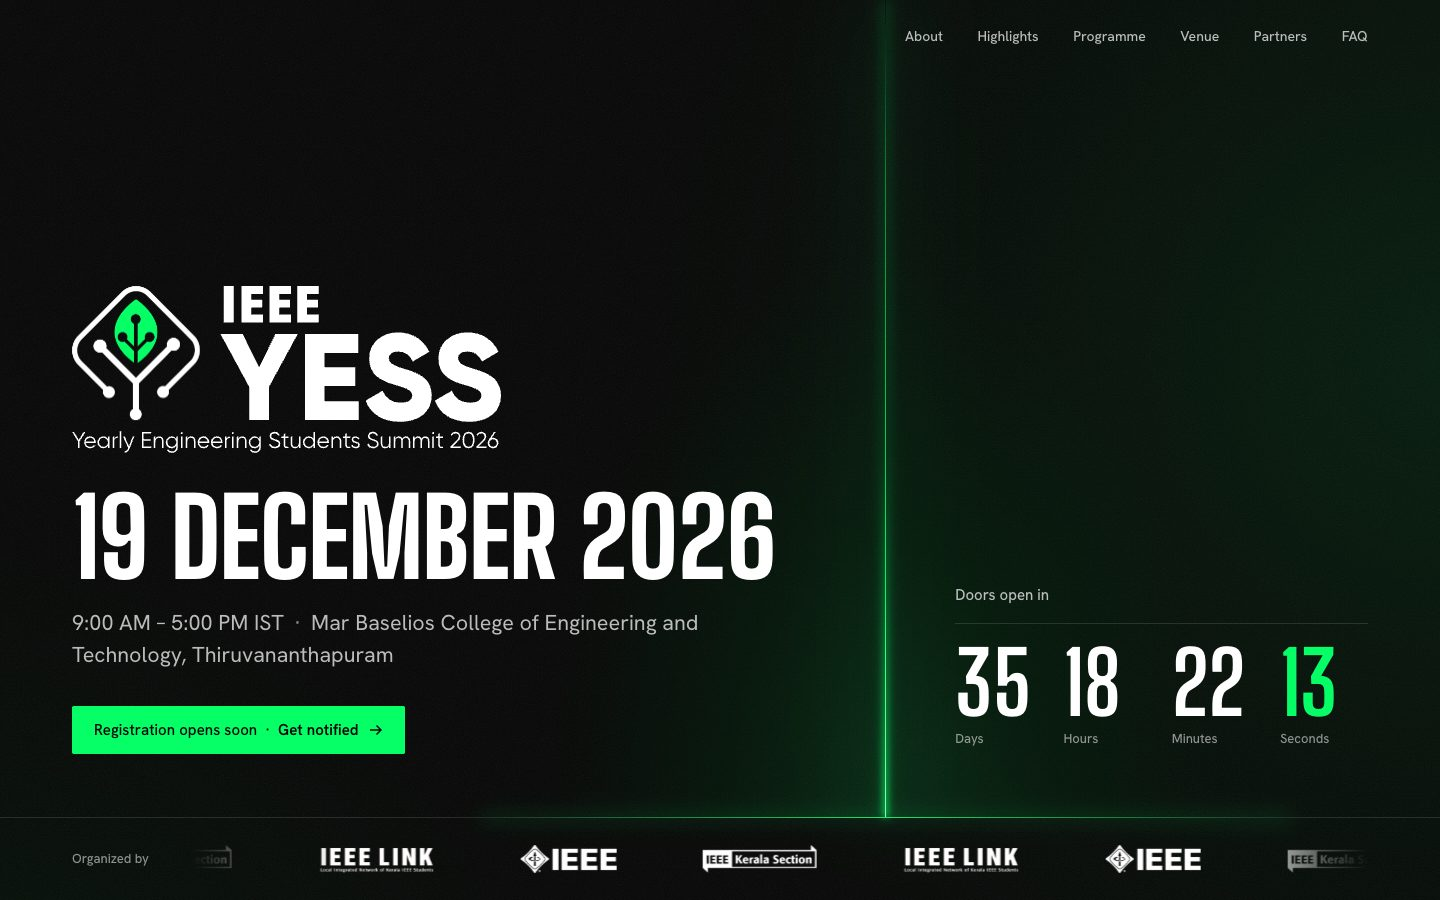
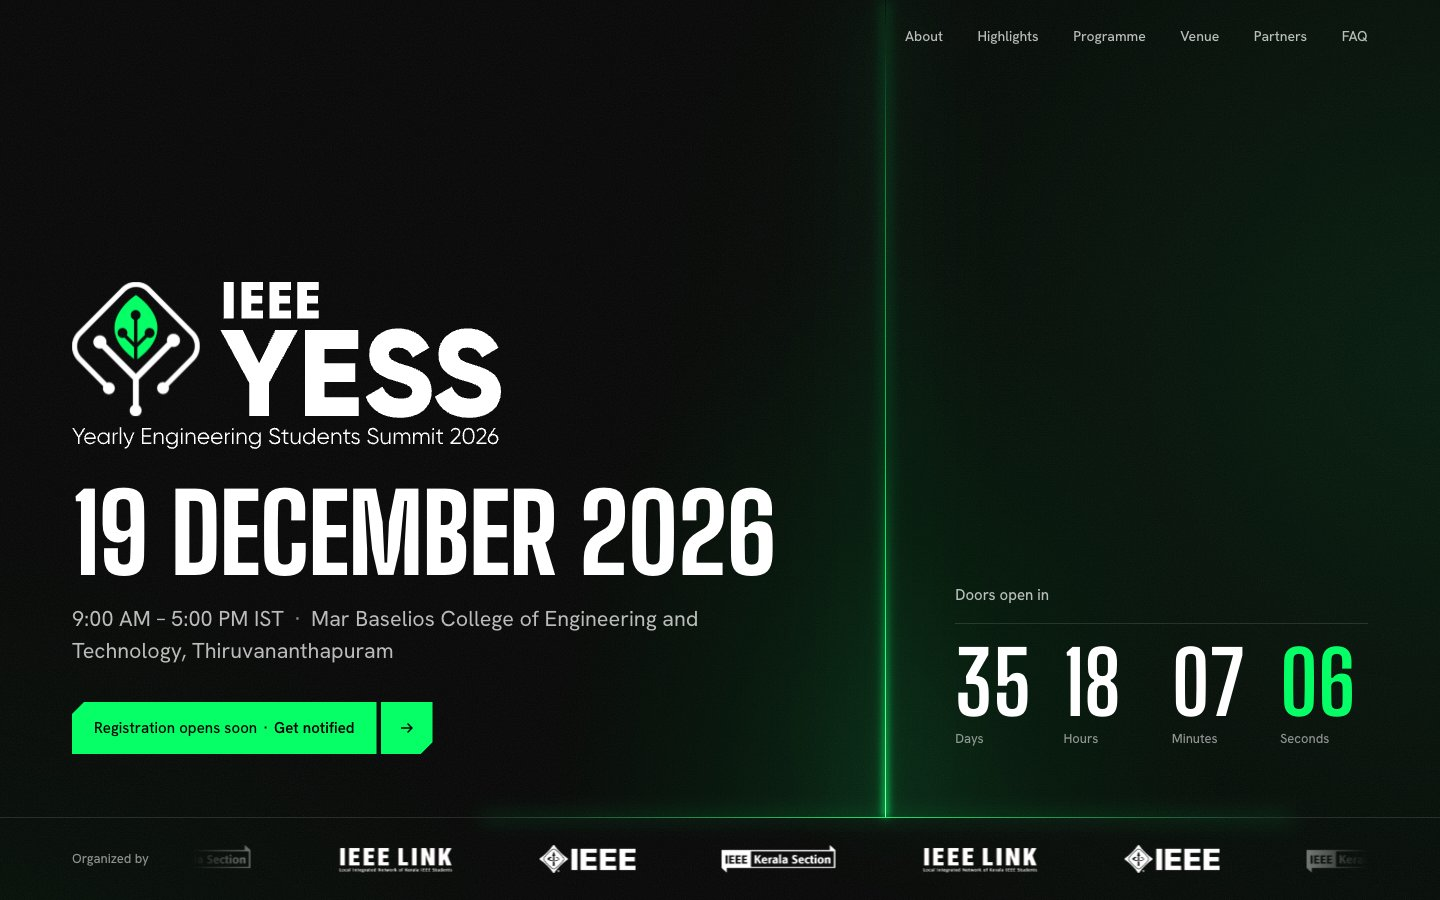
Revamp footer design

diff --git a/src/styles/sections.css b/src/styles/sections.css
@@ -144,42 +144,60 @@ a.tile:hover { box-shadow: inset 0 0 0 1px var(--line-2); }
 .final__cta { margin-top: var(--s-7); display: flex; justify-content: center; }
 @media (max-width: 599px) { .final__line { font-size: 15vw; } .final__facts { font-size: var(--fs-s); } }
 
-/* ---------- Footer ---------- */
-.foot { position: relative; padding-top: clamp(72px, 12vh, 128px); padding-bottom: calc(var(--s-5) + env(safe-area-inset-bottom)); background: var(--black); }
-.foot__top, .foot__cols { display: grid; grid-template-columns: repeat(12, minmax(0, 1fr)); column-gap: var(--gutter); }
-.foot__brand { grid-column: 1 / span 4; }
-.foot__logo { width: clamp(220px, 22vw, 340px); }
-.foot__notify { grid-column: 7 / -1; }
-.foot__cols { margin-top: clamp(48px, 7vh, 72px); }
-.foot__col { grid-column: span 2; }
-.foot__col:first-child { grid-column: 1 / span 2; }
-.foot__h { font-size: var(--fs-s); font-weight: 600; color: var(--ink); margin-bottom: var(--s-4); }
-.foot__list { display: grid; gap: 6px; font-size: var(--fs-s); }
-.notify__label { display: block; font-size: var(--fs-m); color: var(--ink-2); margin-bottom: var(--s-4); }
-.notify__row { display: flex; gap: var(--s-2); max-width: 560px; }
-.notify input { flex: 1; min-width: 0; height: 48px; padding: 0 16px; border: 0; border-radius: var(--r); background: rgb(255 255 255 / 0.04); box-shadow: inset 0 0 0 1px var(--line-2);
-  color: var(--ink); font: inherit; font-size: 16px; transition: box-shadow var(--t-state) var(--ease); }
-.notify input::placeholder { color: var(--ink-3); }
-.notify input:hover { box-shadow: inset 0 0 0 1px rgb(255 255 255 / 0.4); }
-.notify input:focus { outline: none; box-shadow: inset 0 0 0 1px var(--white); }
-.notify input:focus-visible { outline: 2px solid var(--green); outline-offset: 3px; }
-.notify__msg { min-height: 1.6em; margin-top: var(--s-3); font-size: var(--fs-s); color: var(--ink-2); }
-.notify__msg[data-ok="true"] { color: var(--green); }
-.notify__mail { margin-top: var(--s-2); font-size: var(--fs-s); color: var(--ink-3); }
+/* ---------- Footer: a near-black panel with rounded top corners, pulled up over the tinted final call ---------- */
+.final { background: linear-gradient(to bottom, var(--bg), var(--final-tint) 38%); padding-bottom: calc(clamp(140px, 26vh, 280px) + var(--panel-r)); }
+:root { --final-tint: #13291a; }
+.foot { position: relative; z-index: 1; margin-top: calc(-1 * var(--panel-r)); overflow: hidden; background: #0b0b0b; border-radius: var(--panel-r) var(--panel-r) 0 0;
+  padding-top: clamp(64px, 10vh, 112px); padding-bottom: env(safe-area-inset-bottom); }
+.foot__smoke { position: absolute; inset: 0; pointer-events: none; opacity: 0.2;
+  background: url("../img/smoke-wide.webp") center bottom / cover no-repeat;
+  -webkit-mask-image: linear-gradient(to bottom, transparent 10%, #000 75%); mask-image: linear-gradient(to bottom, transparent 10%, #000 75%); }
+.foot__in { position: relative; }
 
-.foot__legal { display: flex; justify-content: space-between; gap: var(--s-4); flex-wrap: wrap; margin-top: clamp(72px, 12vh, 128px); padding-top: var(--s-5); border-top: 1px solid var(--line); font-size: var(--fs-xs); color: var(--ink-3); }
-.foot__legal .link { color: var(--ink-3); }
-.foot__legal .link:hover { color: var(--ink); }
+.foot__top { display: grid; grid-template-columns: minmax(0, 1fr) minmax(0, min(46%, 620px)); grid-template-areas: "logo ask" "cols ask"; column-gap: clamp(40px, 6vw, 112px); row-gap: clamp(40px, 6vh, 64px); align-items: start; }
+.foot__logo { grid-area: logo; width: clamp(200px, 18vw, 300px); }
+.foot__ask { grid-area: ask; }
+.foot__cols { grid-area: cols; display: flex; flex-wrap: wrap; gap: 24px clamp(48px, 7vw, 128px); }
+.foot__q { font-family: var(--font-text); font-size: clamp(28px, 2.6vw, 44px); font-weight: 500; line-height: 1.1; letter-spacing: -0.015em; color: var(--ink); }
+.foot__sub { margin-top: var(--s-3); font-size: var(--fs-s); color: var(--ink-2); max-width: 32em; }
+.foot__list { display: grid; gap: 14px; align-content: start; font-size: var(--fs-m); }
+.foot .link { color: var(--ink-2); background-image: linear-gradient(var(--green), var(--green)); }
+.foot .link:hover, .foot .link:focus-visible { color: var(--ink); background-size: 100% 1px; }
+
+.notify { margin-top: clamp(20px, 3vh, 28px); }
+.notify__row { display: flex; gap: 8px; }
+.notify input { flex: 1; min-width: 0; height: var(--btn-h); padding: 0 18px; border: 1px solid rgb(255 255 255 / 0.32); border-radius: 0; background: rgb(0 0 0 / 0.55);
+  color: var(--ink); font: inherit; font-size: 16px; transition: border-color var(--t-state) var(--ease); }
+.notify input::placeholder { color: var(--ink-3); opacity: 1; }
+.notify input:hover { border-color: rgb(255 255 255 / 0.6); }
+.notify input:focus { outline: none; border-color: var(--white); }
+.notify input:focus-visible { outline: 2px solid var(--green); outline-offset: 2px; }
+.notify .btn--primary { flex: none; }
+.notify__msg { min-height: 1.5em; margin-top: 10px; font-size: var(--fs-s); color: var(--ink-2); }
+.notify__msg[data-ok="true"] { color: var(--green); }
+.todo { margin-top: var(--s-2); padding: 10px 14px; border: 1px dashed rgb(255 200 0 / 0.6); font-size: var(--fs-xs); line-height: 1.5; color: #ffd84d; }
+.todo b { margin-right: 6px; letter-spacing: 0.04em; }
+.todo code { font-family: ui-monospace, Menlo, monospace; font-size: 12px; }
+
+/* the wordmark: type, not the logo. One line, sized in JS to ~70% of the content width; each letter rises once. */
+.foot__mark { display: flex; justify-content: center; margin-block: clamp(72px, 12vh, 136px) clamp(48px, 8vh, 96px); font-family: var(--font-display); font-weight: 800; text-transform: uppercase;
+  font-size: 15vw; line-height: 0.86; white-space: nowrap; color: var(--white); user-select: none; pointer-events: none; }
+.foot__mark-in { display: flex; overflow: clip; padding-top: 0.04em; }
+.foot__mark .ch { display: block; }
+.js .foot__mark .ch { transform: translateY(105%); transition: transform 1.1s var(--ease); transition-delay: calc(var(--i) * 45ms); }
+.js .foot__mark.in .ch { transform: none; }
+
+.foot__legal { padding-block: var(--s-5) var(--s-6); border-top: 1px solid var(--line); text-align: center; font-size: var(--fs-s); color: var(--ink-3); }
+.foot__legal .link--inline { color: var(--ink); background-size: 100% 1px; background-image: linear-gradient(var(--ink-3), var(--ink-3)); }
+.foot__legal .link--inline:hover, .foot__legal .link--inline:focus-visible { background-image: linear-gradient(var(--green), var(--green)); }
 
 @media (max-width: 899px) {
-  .foot__top, .foot__cols { grid-template-columns: repeat(2, minmax(0, 1fr)); row-gap: var(--s-8); }
-  .foot__brand, .foot__notify { grid-column: 1 / -1; }
-  .foot__col, .foot__col:first-child { grid-column: span 1; }
-  .foot__cols { margin-top: var(--s-8); row-gap: var(--s-6); }
+  .foot__top { grid-template-columns: minmax(0, 1fr); grid-template-areas: "logo" "ask" "cols"; row-gap: var(--s-7); }
+  .foot__logo { width: 220px; }
+  .foot__smoke { background-image: url("../img/smoke-tall.webp"); }
+  .foot__cols { display: grid; grid-template-columns: repeat(2, minmax(0, 1fr)); gap: var(--s-5); }
   .foot__list { gap: 0; }
   .foot__list .link { display: inline-block; padding-block: 11px; }
-  .foot__logo { width: 240px; }
-  .foot__legal { align-items: center; }
-  .foot__legal .link { display: inline-block; padding-block: 12px; }
+  .foot__mark { margin-block: var(--s-8) var(--s-6); }
+  .foot__legal { line-height: 1.8; }
 }
-@media (max-width: 420px) { .notify__row { flex-direction: column; } .notify input { flex: none; } }

diff --git a/src/render/sections.ts b/src/render/sections.ts
@@ -12,11 +12,15 @@ const pad = (n: number) => String(n).padStart(2, "0");
 const arrow = `<svg class="btn__icon" width="14" height="14" viewBox="0 0 14 14" aria-hidden="true"><path d="M1 7h11M7.5 2.5 12 7l-4.5 4.5" fill="none" stroke="currentColor" stroke-width="1.6"/></svg>`;
 const out = `<svg class="btn__icon" width="12" height="12" viewBox="0 0 12 12" aria-hidden="true"><path d="M3 9 9 3M4 3h5v5" fill="none" stroke="currentColor" stroke-width="1.6"/></svg>`;
 
-/** The one primary action. "Register now" once CONFIG.REGISTER_URL is set; until then it points at the notify form. */
+/** The primary button: a chamfered label block and a separate chamfered arrow block. Used for every primary action. */
+export const primary = (label: string, icon: string = arrow) =>
+  `<span class="btn__label">${label}</span><span class="btn__arrow" aria-hidden="true">${icon}</span>`;
+
+/** The one primary action. "Register now" once CONFIG.REGISTER_URL is set; until then it points at the footer form. */
 export const cta = () =>
   CONFIG.REGISTER_URL
-    ? `<a class="btn btn--primary" href="${esc(CONFIG.REGISTER_URL)}" target="_blank" rel="noopener">Register now ${out}</a>`
-    : `<a class="btn btn--primary" href="#notify"><span class="btn__soft">Registration opens soon</span><span class="btn__dot" aria-hidden="true">·</span>Get notified ${arrow}</a>`;
+    ? `<a class="btn btn--primary" href="${esc(CONFIG.REGISTER_URL)}" target="_blank" rel="noopener">${primary("Register now", out)}<span class="sr-only"> (opens in a new tab)</span></a>`
+    : `<a class="btn btn--primary" href="#notify">${primary('<span class="btn__soft">Registration opens soon</span><span class="btn__dot" aria-hidden="true">·</span>Get notified')}</a>`;
 
 /**
  * The organizer marquee. One set of logos, repeated so each half of the track is wider than any
@@ -86,20 +90,23 @@ export function faq() {
 }
 
 /**
- * The notify form. It posts to CONFIG.NOTIFY_ENDPOINT (any form service that accepts POST with an
- * "email" field). TODO: while the endpoint is null the form stays on the page but tells the visitor
- * the list is not open yet, instead of pretending to sign them up. The build prints a warning.
+ * The footer form. Posts the email to CONFIG.NOTIFY_ENDPOINT; without one it falls back to a mail
+ * link to CONFIG.CONTACT_EMAIL; with neither it shows a visible TODO (and the build warns).
  */
 export function notify() {
-  const mail = CONFIG.CONTACT_EMAIL ? `<p class="notify__mail">Questions: <a class="link" href="mailto:${esc(CONFIG.CONTACT_EMAIL)}">${esc(CONFIG.CONTACT_EMAIL)}</a></p>` : "";
-  return `<form class="notify" id="notifyForm" method="post"${CONFIG.NOTIFY_ENDPOINT ? ` action="${esc(CONFIG.NOTIFY_ENDPOINT)}"` : ' data-off'} novalidate>
-    <label class="notify__label" for="notifyEmail">Hear first when registration opens.</label>
+  const mode = CONFIG.NOTIFY_ENDPOINT ? "post" : CONFIG.CONTACT_EMAIL ? "mail" : "off";
+  const attrs = mode === "post" ? ` action="${esc(CONFIG.NOTIFY_ENDPOINT!)}"` : mode === "mail" ? ` data-mail="${esc(CONFIG.CONTACT_EMAIL!)}"` : " data-off";
+  const todo = mode === "off"
+    ? `<p class="todo" role="note"><b>TODO</b> Connect this form: set <code>NOTIFY_ENDPOINT</code> or <code>CONTACT_EMAIL</code> in <code>src/content/config.ts</code>.</p>`
+    : "";
+  return `<form class="notify" id="notifyForm" method="post"${attrs} novalidate>
     <div class="notify__row">
-      <input id="notifyEmail" name="email" type="email" required autocomplete="email" placeholder="you@college.edu" inputmode="email">
-      <button class="btn btn--primary" type="submit">Notify me</button>
+      <label class="sr-only" for="notifyEmail">Your email</label>
+      <input id="notifyEmail" name="email" type="email" required autocomplete="email" inputmode="email" placeholder="Enter your email">
+      <button class="btn btn--primary" type="submit">${primary("Send")}</button>
     </div>
     <p class="notify__msg" id="notifyMsg" role="status" aria-live="polite"></p>
-  </form>${mail}`;
+  </form>${todo}`;
 }
 
 export function socials() {
@@ -107,7 +114,7 @@ export function socials() {
   const items = Object.entries(CONFIG.SOCIALS).filter(([, url]) => url);
   if (!items.length) return "";
   const names: Record<string, string> = { instagram: "Instagram", linkedin: "LinkedIn", youtube: "YouTube", whatsapp: "WhatsApp" };
-  return `<div class="foot__col"><h2 class="foot__h">Follow</h2><ul class="foot__list">${items.map(([k, url]) => `<li><a class="link" href="${esc(url as string)}" target="_blank" rel="noopener">${names[k] ?? k}</a></li>`).join("")}</ul></div>`;
+  return `<nav aria-label="Social"><ul class="foot__list">${items.map(([k, url]) => `<li><a class="link" href="${esc(url as string)}" target="_blank" rel="noopener">${names[k] ?? k}</a></li>`).join("")}</ul></nav>`;
 }
 
 export const directions = () => esc(directionsUrl());

diff --git a/index.html b/index.html
@@ -187,37 +187,35 @@
 </main>
 
 <footer class="foot" id="notify">
-  <div class="wrap">
+  <div class="foot__smoke" aria-hidden="true"></div>
+  <div class="wrap foot__in">
     <div class="foot__top">
-      <div class="foot__brand">
-        <img class="logo foot__logo" src="./assets/YESS_Logo.svg" width="1202" height="463" alt="IEEE YESS, Yearly Engineering Students Summit 2026" loading="lazy">
-      </div>
-      <div class="foot__notify">
-        <h2 class="foot__h">Get notified</h2>
+      <img class="logo foot__logo" src="./assets/YESS_Logo.svg" width="1202" height="463" alt="IEEE YESS, Yearly Engineering Students Summit 2026" loading="lazy" decoding="async">
+      <div class="foot__ask">
+        <h2 class="foot__q">Still have questions?</h2>
+        <p class="foot__sub">Leave your email. We will reply, and let you know when registration opens.</p>
         {{NOTIFY}}
       </div>
-    </div>
-    <div class="foot__cols">
-      <nav class="foot__col" aria-label="Sections, footer">
-        <h2 class="foot__h">Sections</h2>
-        <ul class="foot__list">
-          <li><a class="link" href="#about">About</a></li><li><a class="link" href="#highlights">Highlights</a></li><li><a class="link" href="#programme">Programme</a></li>
-          <li><a class="link" href="#venue">Venue</a></li><li><a class="link" href="#partners">Partners</a></li><li><a class="link" href="#faq">FAQ</a></li>
-        </ul>
-      </nav>
-      <div class="foot__col">
-        <h2 class="foot__h">Organizers</h2>
-        <ul class="foot__list">
-          <li><a class="link" href="{{LINK_LINK}}" target="_blank" rel="noopener">IEEE LINK</a></li>
-          <li><a class="link" href="{{LINK_KERALA}}" target="_blank" rel="noopener">IEEE Kerala Section</a></li>
-          <li><a class="link" href="{{LINK_IEEE}}" target="_blank" rel="noopener">IEEE</a></li>
-        </ul>
+      <div class="foot__cols">
+        <nav aria-label="Sections, footer">
+          <ul class="foot__list">
+            <li><a class="link" href="#highlights">Highlights</a></li><li><a class="link" href="#programme">Programme</a></li><li><a class="link" href="#venue">Venue</a></li><li><a class="link" href="#partners">Partners</a></li><li><a class="link" href="#faq">FAQ</a></li>
+          </ul>
+        </nav>
+        <nav aria-label="IEEE">
+          <ul class="foot__list">
+            <li><a class="link" href="{{LINK_IEEE}}" target="_blank" rel="noopener">IEEE</a></li>
+            <li><a class="link" href="{{LINK_KERALA}}" target="_blank" rel="noopener">IEEE Kerala Section</a></li>
+            <li><a class="link" href="{{LINK_LINK}}" target="_blank" rel="noopener">IEEE LINK</a></li>
+            <li><a class="link" href="{{LINK_YESS25}}" target="_blank" rel="noopener">YESS 2025</a></li>
+          </ul>
+        </nav>
+        {{SOCIALS}}
       </div>
-      {{SOCIALS}}
     </div>
+    <p class="foot__mark" id="footMark" aria-hidden="true"><span class="foot__mark-in">{{WORDMARK}}</span></p>
     <div class="foot__legal">
-      <p>© 2026 IEEE YESS. Organized by IEEE LINK TEAM</p>
-      <a class="link" href="#top">Back to top</a>
+      <p>© 2026 IEEE YESS. Organized by <a class="link link--inline" href="{{LINK_LINK}}" target="_blank" rel="noopener">IEEE LINK</a> TEAM</p>
     </div>
   </div>
 </footer>

diff --git a/src/styles/base.css b/src/styles/base.css
@@ -40,7 +40,9 @@
   --margin: clamp(20px, 5vw, 88px);
   --gutter: clamp(16px, 2vw, 32px);
   --max: 1600px;
-  --r: 2px; /* the only radius */
+  --r: 2px; /* the only small radius */
+  --panel-r: 44px; /* the footer panel's top corners */
+  --chamfer: 12px; --btn-h: 52px; --green-hi: #5cff9c;
 
   /* one easing family, one duration scale */
   --ease: cubic-bezier(0.16, 1, 0.3, 1);
@@ -83,15 +85,22 @@ ul, ol { list-style: none; }
 .btn:active { transform: translateY(1px); }
 .btn__icon { flex: none; transition: transform var(--t-small) var(--ease); }
 .btn:hover .btn__icon { transform: translateX(3px); }
-.btn--primary { background: var(--green); color: var(--black); }
-.btn--primary:hover { background: var(--white); }
+/* primary: a label block with its top-left corner cut at 45°, a 4px gap, and an arrow block with its
+   bottom-right corner cut. The link/button itself is transparent so focus rings and taps cover both. */
+.btn--primary { gap: 4px; padding: 0; align-items: stretch; height: var(--btn-h); min-height: 0; color: var(--black); }
+.btn--primary .btn__label, .btn--primary .btn__arrow { display: flex; align-items: center; justify-content: center; background: var(--green); transition: background-color var(--t-state) var(--ease); }
+.btn--primary .btn__label { gap: 8px; padding-inline: 22px; clip-path: polygon(var(--chamfer) 0, 100% 0, 100% 100%, 0 100%, 0 var(--chamfer)); }
+.btn--primary .btn__arrow { flex: none; width: var(--btn-h); clip-path: polygon(0 0, 100% 0, 100% calc(100% - var(--chamfer)), calc(100% - var(--chamfer)) 100%, 0 100%); }
+.btn--primary:hover .btn__label, .btn--primary:hover .btn__arrow { background: var(--green-hi); }
+.btn--primary:hover .btn__icon { transform: translateX(3px); }
+.btn--primary:focus-visible { border-radius: 0; }
 .btn--secondary { box-shadow: inset 0 0 0 1px var(--line-2); color: var(--ink); }
 .btn--secondary:hover { box-shadow: inset 0 0 0 1px var(--white); background: rgb(255 255 255 / 0.04); }
 .btn--icon { width: 48px; padding: 0; }
 .btn--icon:hover svg { transform: none; }
 .btn__soft { font-weight: 500; }
 .btn__dot { margin-inline: -2px; }
-@media (max-width: 420px) { .btn--primary .btn__soft { font-size: 14px; } .btn--primary { padding-inline: 16px; gap: 8px; } }
+@media (max-width: 420px) { .btn--primary .btn__soft { font-size: 14px; } .btn--primary .btn__label { padding-inline: 14px; gap: 6px; } }
 
 /* text links: one look */
 .link { color: var(--ink-2); background: linear-gradient(currentColor, currentColor) 0 100% / 0 1px no-repeat; transition: color var(--t-state) var(--ease), background-size var(--t-small) var(--ease); padding-block: 2px; }
@@ -125,6 +134,7 @@ ul, ol { list-style: none; }
   .nav__menu { display: block; }
   .nav__logo { width: 84px; }
   html { scroll-padding-top: 64px; }
+  :root { --panel-r: 28px; --chamfer: 10px; --btn-h: 50px; }
 }
 
 /* ---- shared type ---- */

diff --git a/src/sections/notify.ts b/src/sections/notify.ts
@@ -14,14 +14,20 @@ export function initNotify() {
   form.addEventListener("submit", async e => {
     e.preventDefault();
     if (!input.checkValidity()) { say("Enter a valid email address."); input.focus(); return; }
-    if (form.hasAttribute("data-off")) { say("The list opens shortly. Please check back soon."); return; }
+    if (form.hasAttribute("data-off")) { say("This form is not connected yet."); return; }
+    if (form.dataset.mail) {
+      const body = encodeURIComponent(`Please reply to: ${input.value}\n\n`);
+      location.href = `mailto:${form.dataset.mail}?subject=${encodeURIComponent("IEEE YESS 2026: a question")}&body=${body}`;
+      say("Your mail app should open with the message ready to send.", true);
+      return;
+    }
     button.disabled = true;
     say("Sending…");
     try {
       const res = await fetch(form.action, { method: "POST", body: new FormData(form), headers: { Accept: "application/json" } });
       if (!res.ok) throw new Error(String(res.status));
       form.reset();
-      say("You are on the list. We will write when registration opens.", true);
+      say("Thank you. We will be in touch.", true);
     } catch {
       say("That did not go through. Please try again in a moment.");
     } finally {

diff --git a/src/content/config.ts b/src/content/config.ts
@@ -30,7 +30,12 @@ export const CONFIG = {
   REGISTER_URL: null as string | null,
   /** TODO: contact email. */
   CONTACT_EMAIL: null as string | null,
-  /** TODO: endpoint the "Get notified" form posts to. */
+  /**
+   * TODO: endpoint the footer form ("Still have questions?") posts to: any form service that accepts
+   * POST with an "email" field (Formspree, Getform, Basin...). If it stays null but CONTACT_EMAIL is set,
+   * the form opens the visitor's mail app addressed to CONTACT_EMAIL instead. With neither, the footer
+   * shows a visible TODO.
+   */
   NOTIFY_ENDPOINT: null as string | null,
   /** TODO: 2026 social handles (full URLs). Hidden while null. */
   SOCIALS: {
@@ -47,6 +52,8 @@ export const CONFIG = {
     ieee: "https://www.ieee.org/",
     ieeeKerala: "https://ieeekerala.org/",
     ieeeLink: "https://ieee-link.org/",
+    /** Last year's site, linked from the earlier YESS build. If the 2026 site is deployed to this same domain, change it. */
+    yess25: "https://yess.ieee-link.org/",
   },
   /**
    * The organizer marquee in the hero. Real files from assets/partners, used exactly as supplied.

diff --git a/src/main.ts b/src/main.ts
@@ -11,8 +11,17 @@ import { initNotify } from "./sections/notify";
 startCountdown(document.getElementById("count")!, document.getElementById("countLabel"));
 
 // statements that reveal line by line: split now, again once fonts land, and when the measure changes
+// the footer wordmark: one line at about 70% of the content width, whatever the font metrics
+const mark = document.getElementById("footMark")!, markIn = mark.firstElementChild as HTMLElement;
+const fitMark = () => {
+  mark.style.fontSize = "100px";
+  const box = mark.parentElement!, cs = getComputedStyle(box);
+  const content = box.clientWidth - parseFloat(cs.paddingLeft) - parseFloat(cs.paddingRight);
+  mark.style.fontSize = `${((content * 0.7) / markIn.scrollWidth) * 100}px`;
+};
+
 const splits = [...document.querySelectorAll<HTMLElement>("[data-split]")];
-const resplit = () => splits.forEach(splitLines);
+const resplit = () => { splits.forEach(splitLines); fitMark(); };
 resplit();
 document.fonts?.ready.then(resplit);
 let rz = 0, lastW = innerWidth;

diff --git a/src/sections/nav.ts b/src/sections/nav.ts
@@ -36,7 +36,7 @@ export function initNav() {
   const reveal = new IntersectionObserver(es => {
     for (const e of es) if (e.isIntersecting) { e.target.classList.add("in"); reveal.unobserve(e.target); }
   }, { rootMargin: "0px 0px -12% 0px", threshold: 0 });
-  document.querySelectorAll(".sec, .final, .foot").forEach(s => reveal.observe(s));
+  document.querySelectorAll(".sec, .final, .foot, #footMark").forEach(s => reveal.observe(s));
 
   // phone menu: full screen; Escape and any link close it
   const menu = document.getElementById("menu")!, btn = document.getElementById("menuBtn")!;

diff --git a/vite.config.ts b/vite.config.ts
@@ -42,6 +42,8 @@ function contentTokens(): Plugin {
           LINK_IEEE: esc(CONFIG.LINKS.ieee),
           LINK_KERALA: esc(CONFIG.LINKS.ieeeKerala),
           LINK_LINK: esc(CONFIG.LINKS.ieeeLink),
+          LINK_YESS25: esc(CONFIG.LINKS.yess25),
+          WORDMARK: [..."IEEE YESS"].map((c, i) => `<span class="ch" style="--i:${i}">${c === " " ? "&nbsp;" : c}</span>`).join(""),
           DIRECTIONS_URL: directions(),
           CTA: cta(),
           HIGHLIGHTS: highlights(),

diff --git a/docs/design-audit.md b/docs/design-audit.md
@@ -114,3 +114,13 @@ Screenshots after: `docs/shots/after/` (1440, 820, 390; hero also at 1280x620 an
 - No horizontal overflow at 1440 / 820 / 390 / 375; touch targets ≥ 44 px on phones; mobile menu opens, closes on link and Escape.
 - Lighthouse mobile: Performance 99, Accessibility 100, Best practices 100, SEO 100 (LCP 2.0 s, CLS 0). Desktop: 100 / 100 / 100 / 100.
 - The logo is the same `assets/YESS_Logo.svg` everywhere as a plain `<img>`; no filters, masks or overlays touch it. Organizer logos are the supplied PNGs.
+
+## Footer rebuild and button system (13 Nov, second request)
+
+- **Footer** restyled to the earlier build's shape: a #0b0b0b panel with only the top corners rounded (44 px desktop, 28 px phones), pulled up by its radius over the final call, which now fades from the page black into a #13291a tint so the curve reads. The faint smoke still from the earlier build (`src/img/smoke-*.webp`) sits at 20% opacity, masked away at the top.
+- Top row: logo on the left; "Still have questions?" with the email form on the right, top-aligned. Two link columns under the logo (current sections; IEEE, IEEE Kerala Section, IEEE LINK, YESS 2025 at yess.ieee-link.org as used by the earlier build). Thin green underline on hover and focus.
+- Form: posts to `CONFIG.NOTIFY_ENDPOINT`; without one, opens a mail to `CONFIG.CONTACT_EMAIL`; with neither, shows a visible yellow TODO note (and the build warns).
+- Wordmark "IEEE YESS" is back on request: one line, white, fitted in JS to 70% of the content width, letters rise once and end sharp.
+- Legal line centred under a hairline, "IEEE LINK" underlined as a link.
+- **Primary button** is now the two-part chamfered style everywhere (hero, final call, footer): a label block with its top-left corner cut at 45° and a separate arrow block with its bottom-right corner cut, 4 px apart; hover lightens both and nudges the arrow. Secondary stays a 1 px outline.
+- Build passes; Lighthouse mobile 99 / 100 / 100 / 100 after the change.
